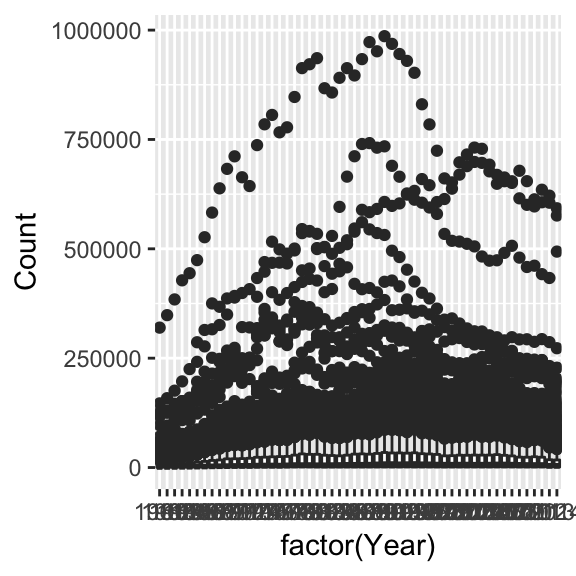
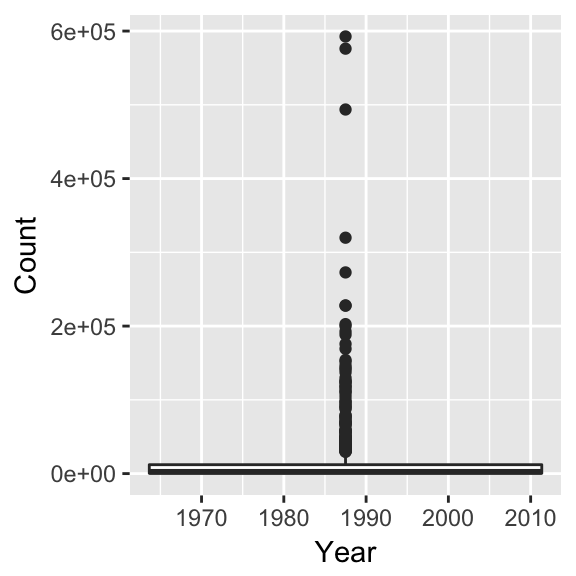
nicer example

diff --git a/02_r-intro/05_factors.html b/02_r-intro/05_factors.html
@@ -83,17 +83,18 @@
 <li><span style="color:white">Compare summary of Year to the previous result</span></li>
 <li><span style="color:white">Are there other variables that should be factors (or vice versa)? </span></li>
 </ul>
-</section><section id="mini-note" class="slide level2">
-<h2>Mini note:</h2>
+</section><section id="note-factors-in-boxplots" class="slide level2">
+<h2>Note: factors in boxplots</h2>
 <p>boxplots in ggplot2 only work properly if the x variable is a character variable or a factor:</p>
+<div class="sourceCode"><pre class="sourceCode r"><code class="sourceCode r">twoyear &lt;-<span class="st"> </span>dplyr::<span class="kw">filter</span>(fbi, Year %in%<span class="st"> </span><span class="kw">c</span>(<span class="dv">1961</span>, <span class="dv">2014</span>))</code></pre></div>
 <div class="double">
 <p class="double-flow">
-<div class="sourceCode"><pre class="sourceCode r"><code class="sourceCode r"><span class="kw">ggplot</span>(<span class="dt">data =</span> fbi, <span class="kw">aes</span>(<span class="dt">x =</span> Year, <span class="dt">y =</span> Count)) +<span class="st"> </span><span class="kw">geom_boxplot</span>()</code></pre></div>
-<img src="05_factors_files/figure-revealjs/unnamed-chunk-2-1.png" width="288" />
+<div class="sourceCode"><pre class="sourceCode r"><code class="sourceCode r"><span class="kw">ggplot</span>(<span class="dt">data =</span> twoyear, <span class="kw">aes</span>(<span class="dt">x =</span> Year, <span class="dt">y =</span> Count)) +<span class="st"> </span><span class="kw">geom_boxplot</span>()</code></pre></div>
+<img src="05_factors_files/figure-revealjs/unnamed-chunk-3-1.png" width="288" />
 </p>
 <p class="double-flow">
-<div class="sourceCode"><pre class="sourceCode r"><code class="sourceCode r"><span class="kw">ggplot</span>(<span class="dt">data =</span> fbi, <span class="kw">aes</span>(<span class="dt">x =</span> <span class="kw">factor</span>(Year), <span class="dt">y =</span> Count)) +<span class="st"> </span><span class="kw">geom_boxplot</span>()</code></pre></div>
-<img src="05_factors_files/figure-revealjs/unnamed-chunk-3-1.png" width="288" />
+<div class="sourceCode"><pre class="sourceCode r"><code class="sourceCode r"><span class="kw">ggplot</span>(<span class="dt">data =</span> twoyear, <span class="kw">aes</span>(<span class="dt">x =</span> <span class="kw">factor</span>(Year), <span class="dt">y =</span> Count)) +<span class="st"> </span><span class="kw">geom_boxplot</span>()</code></pre></div>
+<img src="05_factors_files/figure-revealjs/unnamed-chunk-4-1.png" width="288" />
 </p>
 </div>
 </section><section id="data-types-checking-and-casting" class="slide level2">
